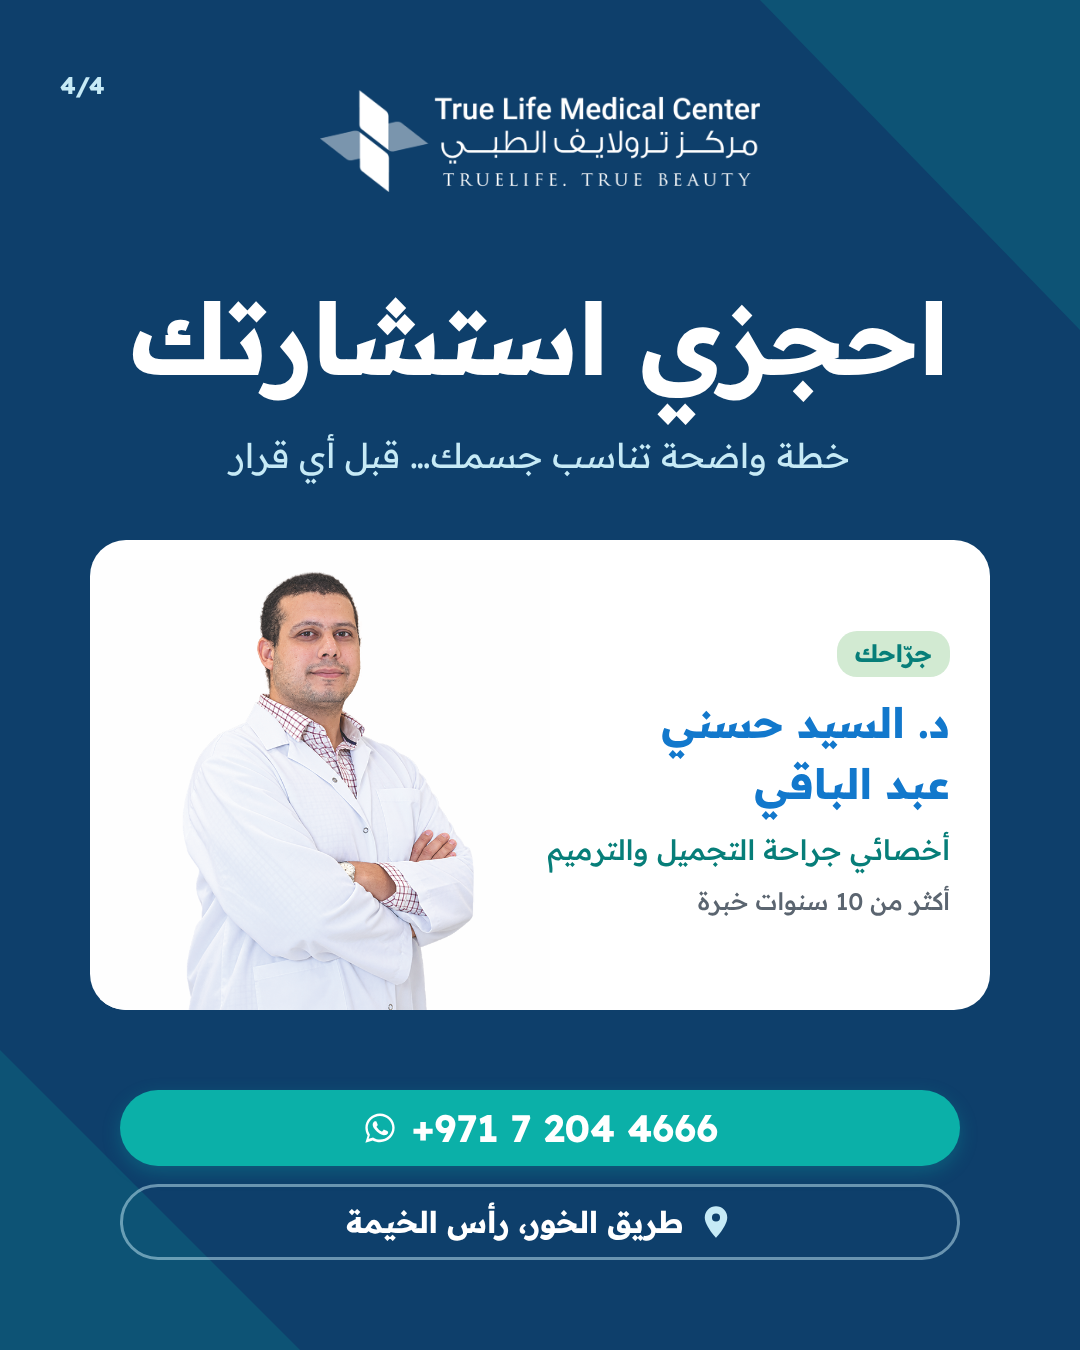
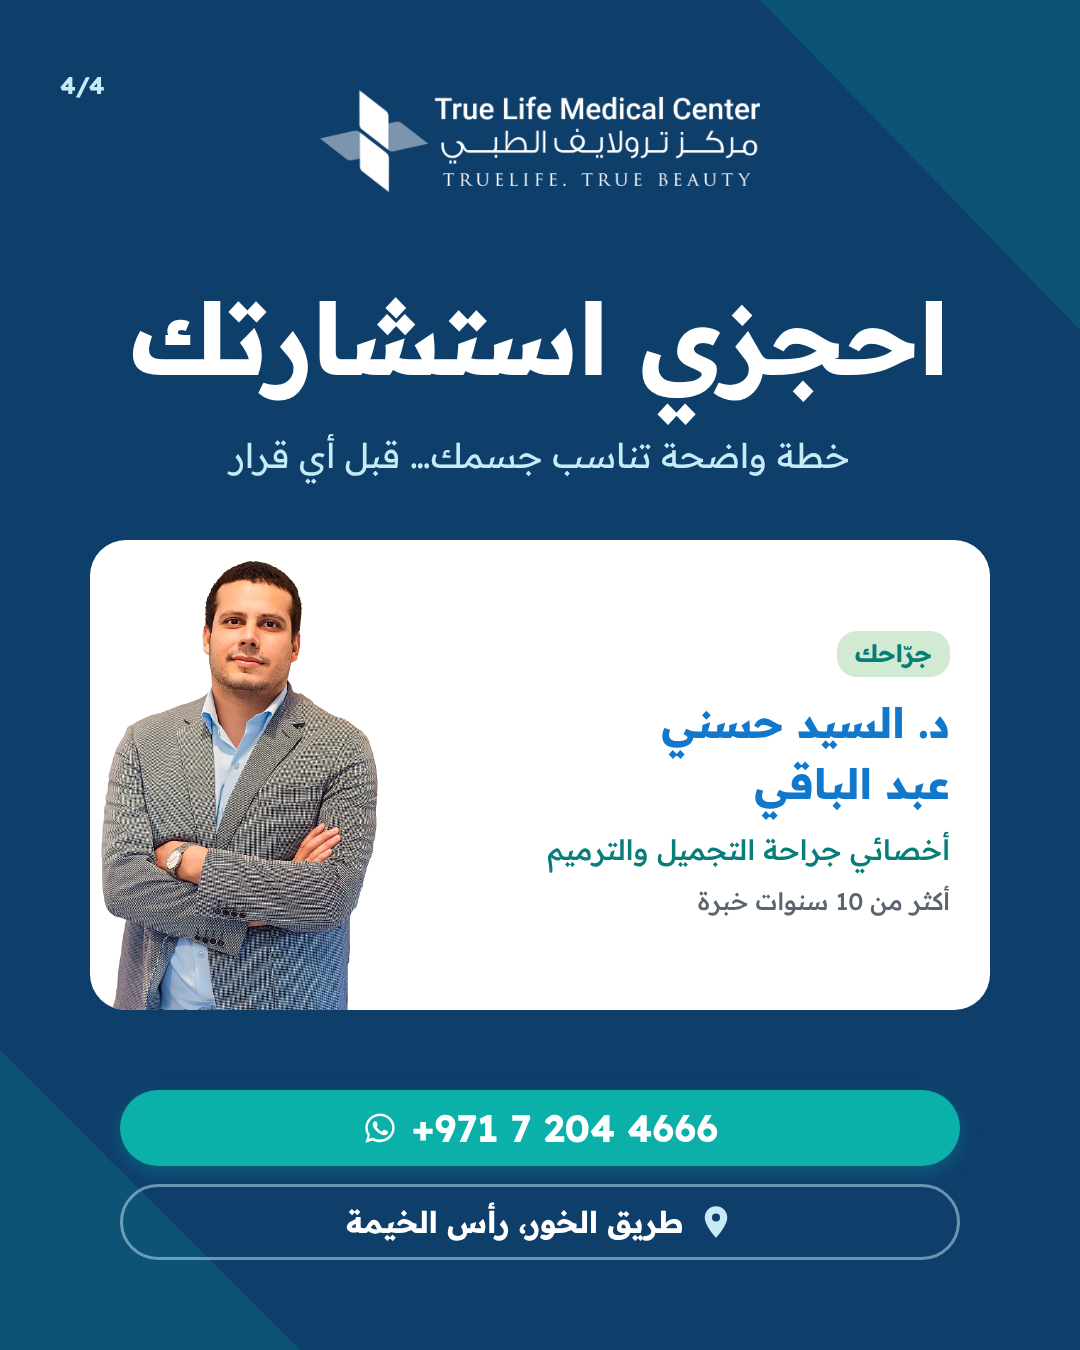
Use new doctor photo on body and breast surgery carousels
Claude-Session: https://claude.ai/code/session_01EZd6nkjhojbY1JhgPgko2h

Changed region(s): [[0.0917, 0.4044, 0.4583, 0.7467]]

diff --git a/designs/plastic/arm_lift/carousel.html b/designs/plastic/arm_lift/carousel.html
@@ -148,7 +148,7 @@
   <div class="ttl">احجزي استشارتك</div>
   <div class="sub">خطة واضحة تناسب جسمك… قبل أي قرار</div>
   <div class="doc">
-    <img src="../dr_elsayed.png" alt="">
+    <img src="../dr_body.png" alt="">
     <div class="txt"><span class="badge">جرّاحك</span>
     <h3>د. السيد حسني<br>عبد الباقي</h3>
     <h4>أخصائي جراحة التجميل والترميم</h4>

diff --git a/designs/plastic/bbl/carousel.html b/designs/plastic/bbl/carousel.html
@@ -153,7 +153,7 @@
   <div class="ttl">احجزي استشارتك</div>
   <div class="sub">خطة واضحة تناسب جسمك… قبل أي قرار</div>
   <div class="doc">
-    <img src="../dr_elsayed.png" alt="">
+    <img src="../dr_body.png" alt="">
     <div class="txt"><span class="badge">جرّاحك</span>
     <h3>د. السيد حسني<br>عبد الباقي</h3>
     <h4>أخصائي جراحة التجميل والترميم</h4>

diff --git a/designs/plastic/breast_aug/carousel.html b/designs/plastic/breast_aug/carousel.html
@@ -148,7 +148,7 @@
   <div class="ttl">احجزي استشارتك</div>
   <div class="sub">خطة واضحة تناسب جسمك… قبل أي قرار</div>
   <div class="doc">
-    <img src="../dr_elsayed.png" alt="">
+    <img src="../dr_body.png" alt="">
     <div class="txt"><span class="badge">جرّاحك</span>
     <h3>د. السيد حسني<br>عبد الباقي</h3>
     <h4>أخصائي جراحة التجميل والترميم</h4>

diff --git a/designs/plastic/breast_lift/carousel.html b/designs/plastic/breast_lift/carousel.html
@@ -148,7 +148,7 @@
   <div class="ttl">احجزي استشارتك</div>
   <div class="sub">خطة واضحة تناسب جسمك… قبل أي قرار</div>
   <div class="doc">
-    <img src="../dr_elsayed.png" alt="">
+    <img src="../dr_body.png" alt="">
     <div class="txt"><span class="badge">جرّاحك</span>
     <h3>د. السيد حسني<br>عبد الباقي</h3>
     <h4>أخصائي جراحة التجميل والترميم</h4>

diff --git a/designs/plastic/breast_reduction/carousel.html b/designs/plastic/breast_reduction/carousel.html
@@ -148,7 +148,7 @@
   <div class="ttl">احجزي استشارتك</div>
   <div class="sub">خطة واضحة تناسب جسمك… قبل أي قرار</div>
   <div class="doc">
-    <img src="../dr_elsayed.png" alt="">
+    <img src="../dr_body.png" alt="">
     <div class="txt"><span class="badge">جرّاحك</span>
     <h3>د. السيد حسني<br>عبد الباقي</h3>
     <h4>أخصائي جراحة التجميل والترميم</h4>

diff --git a/designs/plastic/liposuction/carousel.html b/designs/plastic/liposuction/carousel.html
@@ -153,7 +153,7 @@
   <div class="ttl">احجزي استشارتك</div>
   <div class="sub">خطة واضحة تناسب جسمك… قبل أي قرار</div>
   <div class="doc">
-    <img src="../dr_elsayed.png" alt="">
+    <img src="../dr_body.png" alt="">
     <div class="txt"><span class="badge">جرّاحك</span>
     <h3>د. السيد حسني<br>عبد الباقي</h3>
     <h4>أخصائي جراحة التجميل والترميم</h4>

diff --git a/designs/plastic/thigh_lift/carousel.html b/designs/plastic/thigh_lift/carousel.html
@@ -148,7 +148,7 @@
   <div class="ttl">احجزي استشارتك</div>
   <div class="sub">خطة واضحة تناسب جسمك… قبل أي قرار</div>
   <div class="doc">
-    <img src="../dr_elsayed.png" alt="">
+    <img src="../dr_body.png" alt="">
     <div class="txt"><span class="badge">جرّاحك</span>
     <h3>د. السيد حسني<br>عبد الباقي</h3>
     <h4>أخصائي جراحة التجميل والترميم</h4>

diff --git a/designs/plastic/tummy_tuck/carousel.html b/designs/plastic/tummy_tuck/carousel.html
@@ -149,7 +149,7 @@
   <div class="ttl">احجزي استشارتك</div>
   <div class="sub">خطة واضحة تناسب جسمك… قبل أي قرار</div>
   <div class="doc">
-    <img src="../dr_elsayed.png" alt="">
+    <img src="../dr_body.png" alt="">
     <div class="txt"><span class="badge">جرّاحك</span>
     <h3>د. السيد حسني<br>عبد الباقي</h3>
     <h4>أخصائي جراحة التجميل والترميم</h4>

diff --git a/designs/plastic/gynecomastia/carousel.html b/designs/plastic/gynecomastia/carousel.html
@@ -150,7 +150,7 @@
   <div class="ttl">احجز استشارتك</div>
   <div class="sub">خطة واضحة تناسبك… قبل أي قرار</div>
   <div class="doc">
-    <img src="../dr_elsayed.png" alt="">
+    <img src="../dr_body.png" alt="">
     <div class="txt"><span class="badge">جرّاحك</span>
     <h3>د. السيد حسني<br>عبد الباقي</h3>
     <h4>أخصائي جراحة التجميل والترميم</h4>

diff --git a/designs/plastic/gen_carousel.py b/designs/plastic/gen_carousel.py
@@ -59,5 +59,8 @@ s = s.replace(s3, n3)
 s = s.replace('src="body_illustration.png"', 'src="' + spec.get('illustration', '../liposuction/body_illustration.png') + '"')
 if spec.get('gender') == 'm':
     s = s.replace('احجزي', 'احجز').replace('تناسب جسمك', 'تناسبك')
+# face surgeries keep the original doctor photo; body & breast use dr_body.png
+if slug in ('rhinoplasty', 'facelift', 'eyelid', 'brow_lift', 'otoplasty'):
+    s = s.replace('../dr_body.png', '../dr_elsayed.png')
 open(f'{slug}/carousel.html', 'w', encoding='utf-8').write(s)
 print('written', slug)
